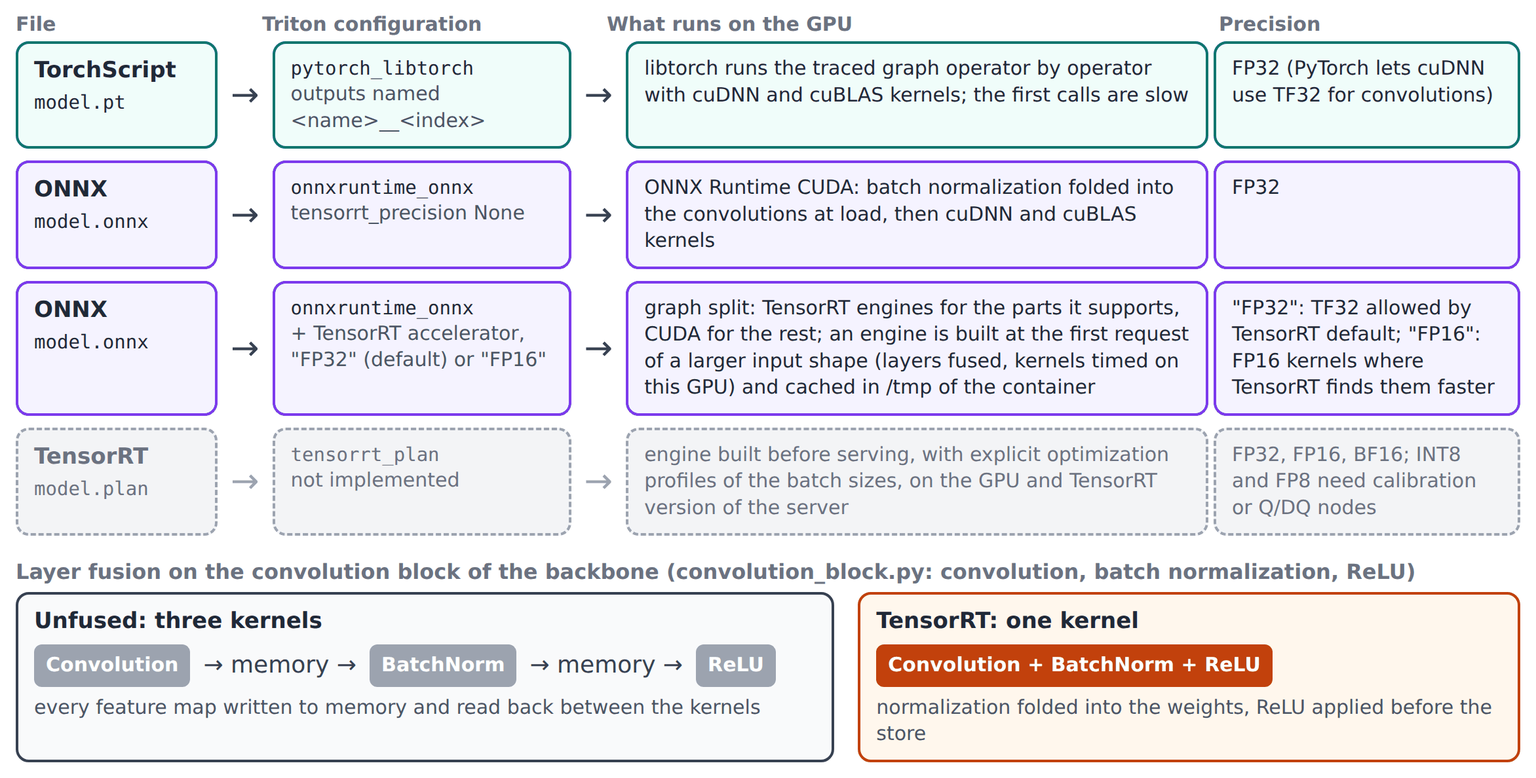
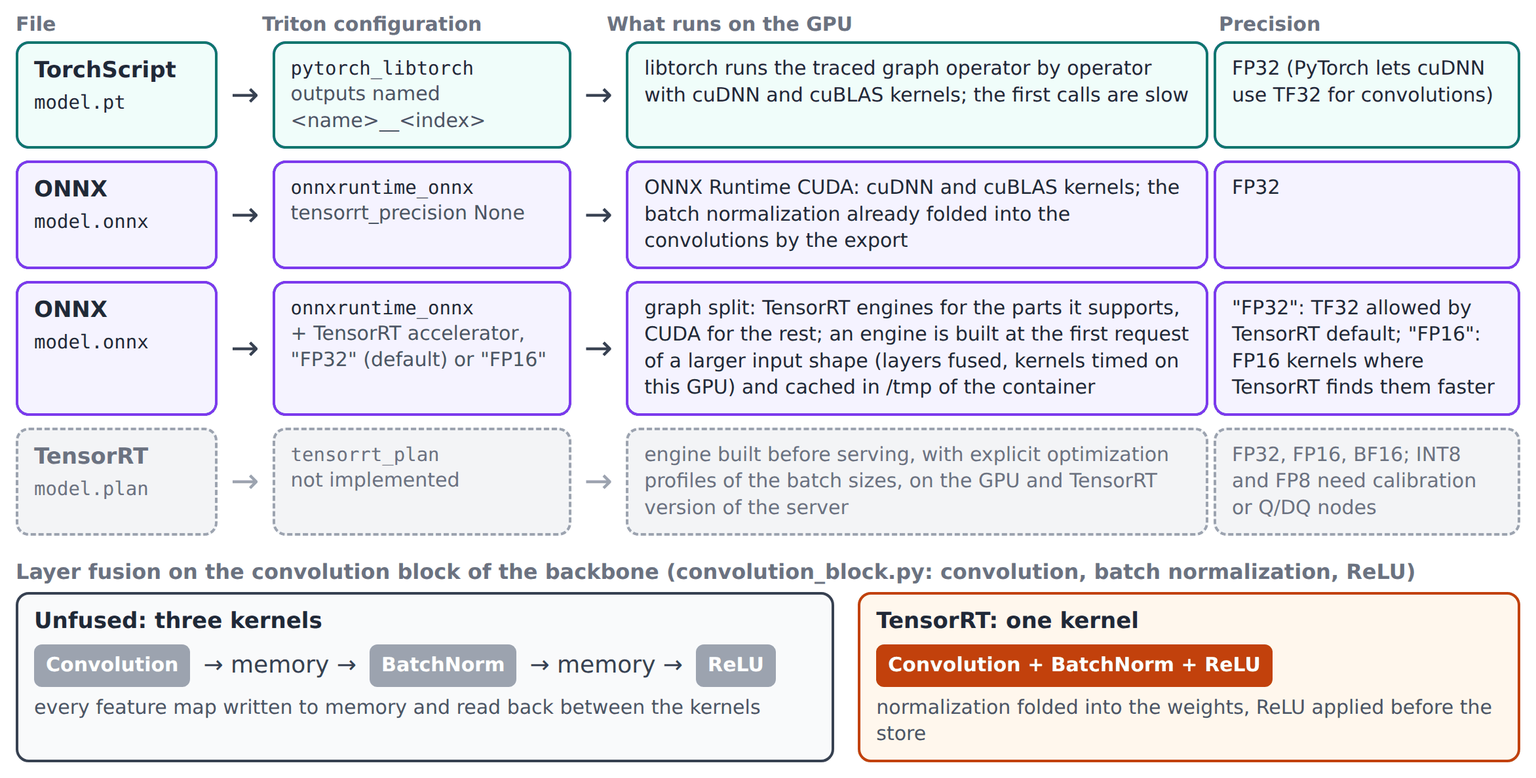
[DOCS] Open the Deployment section with From A Checkpoint To A Served Model, which follows the 35-class README classifier (512 pixels, iteration 2000) exported on 2026-11-19 from its checkpoint to Triton: a table of the words (eager, export, TorchScript, ONNX, ONNX Runtime, TensorRT, precision, Trit
Claude-Session: https://claude.ai/code/session_016uCt2XTu9R5KcJCjGynGL8

Changed region(s): [[0.4049, 0.218, 0.7786, 0.3426]]

diff --git a/README.md b/README.md
@@ -29,6 +29,7 @@
 - [MLflow Tracking](#mlflow-tracking)
 - [Tutorials](#tutorials)
 - [Deployment](#deployment)
+  - [From A Checkpoint To A Served Model](#from-a-checkpoint-to-a-served-model)
   - [Export](#export)
   - [Input Contract](#input-contract)
   - [Triton Server](#triton-server)
@@ -899,8 +900,243 @@ Should you look for what the videos do not show yet, `documentation/tutorial_bac
 
 ## Deployment
 
+### From A Checkpoint To A Served Model
+If words such as eager, ONNX or TensorRT stop you in the Deployment section, this part follows one trained run from its checkpoint to a served model: the 35-class synthetic shapes classifier of the README screenshots (512 pixels, iteration 2000), exported on 2026-11-19, from which every file, output and timing below comes unless the serving benchmark is named. The table gives each word in one line with a comparison, the subsections explain them on that run, and the [glossary](#glossary) defines the other terms.
+
+| Word | What it is | Comparison |
+|---|---|---|
+| Eager | PyTorch running the Python classes of the repository line by line, each operation sent to the GPU when Python reaches it: how every training and evaluation runs, and the reference of every export | a cook reading the recipe step by step, free to change a step on the way |
+| Export | `export_model.py` running the model once on an example batch, recording its operations and weights into `model.pt` and `model.onnx`, checking both against the eager model and writing them with their Triton configuration into `served_models/` | filming the cook once, so the film no longer needs the cook's notes |
+| TorchScript (`model.pt`) | the graph format of PyTorch: the operations recorded by `torch.jit.trace` with the weights, run by PyTorch or its C++ library libtorch, in your process or in Triton | the film, playable only by PyTorch players |
+| ONNX (`model.onnx`) | an open graph format of standard operators (opset 18): the graph in `model.onnx`, the weights in `model.onnx.data`, the input contract in its metadata, read by the runtimes of any framework | the recipe written in a universal language |
+| ONNX Runtime | the library that runs `model.onnx`: on the CPU for the export check, on the GPU inside Triton through its CUDA or TensorRT execution provider | a kitchen that reads the universal recipe, on the stove plugged into it |
+| TensorRT | the compiler of NVIDIA that turns `model.onnx` into an engine for one GPU model and one TensorRT version; ONNX Runtime builds the engines inside Triton at the first requests, and the export does not check them | the recipe rewritten for one specific kitchen, faster there and useless elsewhere |
+| Precision (FP32 / FP16) | the bits of every computed value: the exports store FP32 (32 bits), and with `tensorrt_precision = "FP16"` TensorRT computes in FP16 (16 bits) where it is faster, the inputs and outputs staying FP32 | coarser measuring cups: quicker to use, every measure rounded more |
+| Triton | the inference server of NVIDIA, a Docker container that loads `served_models/` and answers requests over HTTP and gRPC, batching those that arrive together | a restaurant taking orders from many tables at once |
+
+<p align="center">
+  <img src="README/deployment_paths_map.png" width="100%" />
+</p>
+<p align="center"><em>The four ways to run the checkpoint of the README classifier, with the sizes of its export (model.pt, model.onnx) and of the TensorRT engines built from model.onnx in the Triton image (TensorRT 10.14.1, GB10).</em></p>
+
+#### Training Versus Serving
+Once a run has finished, what you hold is a run folder only this repository can read: `Weights/Iteration_2000/model_002000.pt` stores named tensors, and `load_trained_model` rebuilds the network from `training_configuration.yaml` with the Python classes of the repository before copying the tensors into it, the way every evaluation runs. Serving means another program, often on another machine, that receives images and returns predictions. It needs:
+- **the operations and the weights in a file it can read** without this repository: which operation follows which, on which shapes, with which weights;
+- **speed**: the latency of a request (the time until its answer) and the throughput (images answered per second when many arrive);
+- **the same answers** as the model that was evaluated, within a tolerance.
+
+#### The Eager Model
+Each time you evaluate a run or call a model in a notebook, PyTorch runs it eagerly: it holds no plan of the network, Python executes `forward` line by line, and every PyTorch operation it reaches launches its kernel on the GPU at once. A kernel is one GPU program applied to a whole tensor by thousands of threads in parallel, such as the 3 x 3 convolution of the first block producing a [1, 16, 512, 512] feature map. Since Python decides what runs next, an `if`, a `print` or a breakpoint work as in any program; the price is that the serving machine needs Python, PyTorch, the code of the repository and the checkpoint. Kernel launches are asynchronous, Python moving to the next line while the GPU computes, so eager is not the slow path it may seem: on the 9-class README classifier, the serving benchmark measured 2.2 milliseconds for one image in the process, against 3.3 for TorchScript. The eager model is the reference of the repository: every evaluation, the in-process run of `run_inference.py` and the check of every export use it.
+
+<p align="center">
+  <img src="README/eager_trace_graph.gif" width="100%" />
+</p>
+<p align="center"><em>The forward of the README classifier, condensed: run eagerly (Python reaches each line, the False <code>if</code> is skipped), traced by the export (each operation recorded once on a batch of 2 images), then run from model.pt by libtorch without the Python code. Operations that only reshape a tensor (unsqueeze, flatten) and the dropout of the evaluation mode launch no kernel and are left out.</em></p>
+
+#### Checkpoint Versus Model File
+Should you try to load a checkpoint without this repository, you get named tensors and no network to put them in; an exported file holds the graph (the operations with their connections and shapes) and the weights:
+
+| | Checkpoint | TorchScript | ONNX |
+|---|---|---|---|
+| File | `Weights/Iteration_2000/model_002000.pt`, 55.8 MB | `model.pt`, 18.7 MB | `model.onnx`, 0.34 MB, and `model.onnx.data`, 18.5 MB |
+| Holds | 106 named tensors (4.64 million values: weights, batch normalization statistics, class weights of the loss, 18.6 MB), the Adam optimizer state (two values per trained weight, 37.1 MB) and the run metadata | the recorded operations and their weights | 125 nodes of standard operators, 50 weight tensors (4.64 million values) and 5 constants, such as the 255 and 0.5 of the input normalization |
+| Read by | `load_trained_model`, with `training_configuration.yaml` and the code of the repository | PyTorch or libtorch alone | any ONNX runtime |
+
+#### How The Export Records The Graph
+To turn Python code into a file of operations, `export_experiment` (`vision_training/deployment/export_model.py`) runs the inference model on an example batch and writes down what it does:
+- **TorchScript**: `torch.jit.trace` (`export_torchscript` in `export_formats.py`) runs `forward` on a random batch of 2 images and records every tensor operation it executes. Python itself is not recorded: an `if` is decided once and only the branch the example batch took stays. The README classifier keeps the division by 255 and the subtraction of 0.5 of `InputNormalizer`, and nothing of the per-image standardization behind `if self.per_sample_normalization:`, False for this run; a branch on the values of a tensor would be frozen to the example batch in the same way.
+- **ONNX**: `torch.onnx.export(..., opset_version=18, dynamo=True, dynamic_shapes=...)` (`export_onnx`) captures the graph with `torch.export`, which follows the batch dimension as a symbol, `batch` from 1 to `maximum_batch_size`, instead of the number 2, so that `model.onnx` declares its input as [batch, 3, 512, 512]. The optimizer of the exporter then simplifies the graph and folds each batch normalization into the weights and bias of the convolution before it.
+- **The check**: each file runs again on a random batch of 3 images, so that a batch dimension frozen to 2 fails at export rather than in Triton: `model.pt` with `torch.jit.load` on the GPU, `model.onnx` with ONNX Runtime on the CPU. Their outputs must match the eager model, TF32 off, within the tolerance of the task (1e-4 on probabilities, 0.01 pixel on boxes), and the served models are replaced only when every format matches ([Export](#export)).
+
+#### TorchScript
+Suppose the service that answers the requests already links PyTorch, in Python or in C++: TorchScript is the graph format of PyTorch itself, and `model.pt` holds the traced graph with its weights. libtorch, the C++ library at the core of PyTorch, runs it with the same kernels as the eager model, so that on the GPU `model.pt` gives the eager probabilities of the test image below to the last digit. `torch.jit.load` in Python, or `torch::jit::load` in C++, needs no code of the repository, and Triton serves the file with its PyTorch backend (`platform: "pytorch_libtorch"`, the output named `class_probabilities__0`). The graph keeps one operator per PyTorch call, 11 `aten::_convolution` and 11 `aten::batch_norm`, nothing folded. PyTorch 2.14 warns that `torch.jit.trace` and `torch.jit.load` are deprecated and points to `torch.export`; `hide_known_export_warnings` hides these warnings during the export.
+
+#### ONNX
+Whenever the program that serves the model has no PyTorch, a service written in C# or Java, or TensorRT itself, it reads ONNX, the Open Neural Network Exchange format shared by the frameworks: a graph of standard operators (Conv, Relu, Gemm for a fully connected layer, Softmax...) whose behaviour the ONNX specification fixes for every opset version, 18 in this repository. Any runtime implementing opset 18 runs the file, ONNX Runtime, TensorRT or others, from Python, C++, C# or Java, on a CPU or a GPU. Read with the `onnx` package, the export of the README classifier holds 125 nodes: the input normalization inside the graph (its first Div and Sub, so a client sends pixels from 0 to 255), no BatchNormalization node, and the [input contract](#input-contract) in its metadata.
+
+<p align="center">
+  <img src="README/onnx_graph_excerpt.png" width="100%" />
+</p>
+<p align="center"><em>The first 13 and last 7 of the 125 nodes of model.onnx, with the output shape of every node and the shapes of its weights, read from the export of 2026-11-19 with <code>onnx.load</code> and <code>onnx.shape_inference</code>; the squeeze-and-excitation branch is indented.</em></p>
+
+#### ONNX Runtime And Its Execution Providers
+For an ONNX file to compute anything, a runtime must execute its graph; the export check and Triton use ONNX Runtime. It loads the graph, simplifies it, then hands every node to an execution provider, the plug-in that decides on which hardware and with which kernels the node runs:
+
+| Execution provider | How it runs the graph | In this repository |
+|---|---|---|
+| `CPUExecutionProvider` | every node on the CPU | the export check of `model.onnx` |
+| `CUDAExecutionProvider` | the nodes on the GPU, one after the other, the convolutions with cuDNN and the matrix products with cuBLAS, the kernel libraries of NVIDIA that PyTorch calls too | Triton with `tensorrt_precision = None` |
+| `TensorrtExecutionProvider` | hands the parts of the graph TensorRT supports to TensorRT, the rest to CUDA | Triton with `"FP32"` (default) or `"FP16"` |
+
+Before you plan a GPU run of `model.onnx` in your own process, check which providers your installation offers, the `onnxruntime` package of `pyproject.toml` being the CPU build:
+
+```python
+import onnxruntime
+
+print(onnxruntime.get_available_providers())
+```
+
+It prints `['AzureExecutionProvider', 'CPUExecutionProvider']` in the environment of the repository. The CUDA and TensorRT providers come with the `onnxruntime-gpu` package and with the Triton image, where this repository runs ONNX on the GPU.
+
+#### TensorRT
+In case the speed of one model on one GPU matters more than a portable file, TensorRT, the inference compiler of NVIDIA, turns the graph into an engine for that GPU. ONNX Runtime CUDA works mostly like an interpreter, running the nodes one after the other with library kernels after a few rewrites of the graph; TensorRT works like a compiler, reading the whole graph once and writing a program for one GPU. Built from `model.onnx` of the README classifier with `trtexec` in the Triton image (TensorRT 10.14.1, FP32, one image), its engine shows the three things it does:
+- **Fusion**: several nodes computed in one kernel, their intermediate tensors never written to memory. The first convolution produces a [1, 16, 512, 512] float32 feature map, 16.8 MB, that a separate ReLU kernel would read back and write again; TensorRT runs the Conv and its Relu as one layer (`node_Conv_99_myl0_2` covers `node_Conv_99` and `node_relu`), as it does for the 8 other convolutions a Relu follows (the 2 left feed the squeeze-and-excitation of a residual block), the Div and Sub of the input normalization as another, and makes 79 layers of the 125 nodes.
+- **Kernel auto-tuning**: for every layer, the builder times candidate kernels, called tactics, on the GPU itself and keeps the fastest; for that first convolution it timed 60, from 0.0859 milliseconds (TF32 on the Tensor Cores, the units of the GPU that multiply small matrices in reduced precision) to 0.2888.
+- **Reduced precision**: with `"FP16"`, it takes FP16 kernels where they are faster; for the same convolution it kept one of 0.0217 milliseconds.
+
+<p align="center">
+  <img src="README/tensorrt_fusion_and_tuning.gif" width="100%" />
+</p>
+<p align="center"><em>The input normalization and block 1 of the README classifier: their 13 nodes in model.onnx, the 9 layers TensorRT made of them (layer names of the engine report of <code>trtexec --exportLayerInfo</code>), then the 60 candidate kernels its builder timed for the fused convolution on the GB10 and the one it kept, from its verbose log.</em></p>
+
+The output, an engine (also called a plan), is valid for one GPU model (the cached engines carry `sm121`, the compute capability 12.1 of the GB10), one TensorRT version and the input shapes it was built for; it is slow to build and fast to run, `trtexec` building this one in 5.46 seconds. In this repository the TensorRT provider of ONNX Runtime builds the engines inside Triton at the first requests and caches them in `/tmp/tensorrt_engine_cache` of the container, 19.1 MB in FP32 and 10.3 MB in FP16 for this classifier; a native engine built at export (`model.plan`) is not implemented. [TensorRT Or TorchScript And ONNX Runtime CUDA](#tensorrt-or-torchscript-and-onnx-runtime-cuda) lists what this costs.
+
+#### Precision Of The Numbers
+So that you can weigh a reduced precision before serving with it, note that every export stores FP32 (32-bit) weights, inputs and outputs, while the Tensor Cores compute faster on fewer bits: TF32 (PyTorch convolutions and TensorRT "FP32" by default), BF16 and FP16 (16 bits), FP8 and INT8 (8 bits), FP4 (4 bits), each value then rounded more or held in a narrower range. The detector of this repository lost 7.88 points of mAP@0.5 with TensorRT FP16 because the box coordinates its exported NMS offset went above 65,504, the largest FP16 value, until the NMS was fixed ([Serving Benchmark Results](#serving-benchmark-results)). [Number Formats](#number-formats) explains every format with examples.
+
+#### Triton Inference Server
+When other programs must query the model over the network rather than call it inside your own script, a server holds it: Triton Inference Server, the serving program of NVIDIA, started as a Docker container from `vision_training/deployment/triton/docker-compose.yml` ([Triton Server](#triton-server)). It loads the model folders of `served_models/`, each described by its `config.pbtxt`, receives requests over HTTP (port 8000) or gRPC (port 8001), waits up to 1 millisecond to group the requests that arrive together into one batch (dynamic batching), runs each file with its backend, the plug-in of one format (libtorch for `model.pt`, ONNX Runtime with or without TensorRT for `model.onnx`), and returns the outputs. "In the process" is the opposite: the model lives inside your own Python program (the eager model, `torch.jit.load` or an `onnxruntime.InferenceSession`), with no network and no queue.
+
+In order to query Triton once it serves the export of the run, a client needs `tritonclient` and numpy (OpenCV here to read the test image of [One Image Through Every Path](#one-image-through-every-path)), not PyTorch; the calls are those of `run_triton_inference` in `deployment_utilities.py`:
+
+```python
+import cv2
+import numpy as np
+import tritonclient.grpc as triton_client
+
+images = cv2.imread("<synthetic_shapes_folder>/test/data/test_000012.png").transpose(2, 0, 1)[None].astype(np.float32)
+client = triton_client.InferenceServerClient(url="localhost:8001")
+inference_input = triton_client.InferInput(name="images", shape=list(images.shape), datatype="FP32")
+inference_input.set_data_from_numpy(input_tensor=images)
+result = client.infer(model_name="image_classifier_onnx", inputs=[inference_input],
+                      outputs=[triton_client.InferRequestedOutput(name="class_probabilities")])
+print(result.as_numpy(name="class_probabilities").max())
+```
+
+Sent on 2026-11-19 to a Triton server holding the export of the README classifier, it printed 0.96520966, the hexagon probability of `model.onnx` run with the TensorRT FP32 accelerator the export writes by default, and 0.9652039 once the container was started again, its TensorRT engine being built again (below).
+
+#### One Image Through Every Path
+Say you want to see on one image what "the export checks each format against the eager model" means: take `test_000012.png` of the test split of the CLS synthetic shapes dataset the run was trained on (`<synthetic_shapes_folder>`, generated as in [Quick Start With Synthetic Data](#quick-start-with-synthetic-data)), a hexagon of 512 x 512 pixels, the input size, so that the `keep_ratio` resize of the input contract leaves it as it is.
+
+If one wishes to run it through the three paths of a single process, run this snippet from the repository root once `export_model.py` has written the run into `served_models/`, `<experiment_folder>` being the folder that holds the run:
+
+```python
+import cv2
+import numpy as np
+import onnxruntime
+import torch
+
+from pathlib import Path
+
+from vision_training.deployment.export_specifications import build_inference_model
+from vision_training.models.model_loading import load_trained_model
+
+# One test image of 512 x 512 pixels, the input size, so the keep_ratio resize of the input contract leaves it as it is
+images = cv2.imread("<synthetic_shapes_folder>/test/data/test_000012.png").transpose(2, 0, 1)[None].astype(np.float32)
+served_models = Path("vision_training/deployment/triton/served_models")
+
+# Eager: the repository code builds the network from the configuration, then loads the checkpoint (TF32 off, as the
+# export check runs it)
+torch.backends.cudnn.allow_tf32 = False
+run_folder = Path("<experiment_folder>/CLS_IN-KAR-512_SE-RES-BN-B1x16.2x32.2x32.2x64.2x64.2x128-PT_HFLAT.128-HLN-CWB_MC35")
+model = load_trained_model(configuration_path=run_folder / "training_configuration.yaml", device=torch.device("cuda"),
+                           checkpoint_path=run_folder / "Weights/Iteration_2000/model_002000.pt", use_averaged_weights=False)
+eager_model = build_inference_model(task="classification", model=model)
+with torch.no_grad():
+    eager_probabilities = eager_model(images=torch.from_numpy(images).cuda()).cpu().numpy()
+
+# TorchScript: PyTorch alone reads the graph and the weights of model.pt
+torchscript_model = torch.jit.load(f=served_models / "image_classifier_torchscript/1/model.pt", map_location="cuda")
+with torch.no_grad():
+    torchscript_probabilities = torchscript_model(torch.from_numpy(images).cuda()).cpu().numpy()
+
+# ONNX: ONNX Runtime alone reads model.onnx and the weights of model.onnx.data, here on the CPU
+session = onnxruntime.InferenceSession(served_models / "image_classifier_onnx/1/model.onnx", providers=["CPUExecutionProvider"])
+onnx_probabilities = session.run(output_names=["class_probabilities"], input_feed={"images": images})[0]
+
+print(eager_probabilities.max(), np.abs(torchscript_probabilities - eager_probabilities).max(),
+      np.abs(onnx_probabilities - eager_probabilities).max())
+```
+
+It printed `0.96520376 0.0 2.7418137e-06`: the hexagon probability of the eager model, then the largest difference of the 35 probabilities of TorchScript and of ONNX Runtime from it. With the served models of the Triton server above added, all on 2026-11-19:
+
+| Path | hexagon | hollow_hexagon | pentagon | Largest difference from the eager model, over the 35 probabilities |
+|---|---|---|---|---|
+| Eager, TF32 off (reference of the export check) | 0.965204 | 0.013958 | 0.006539 | reference |
+| Eager, PyTorch defaults (TF32 convolutions) | 0.965195 | 0.013976 | 0.006531 | 1.85e-05 |
+| TorchScript, `torch.jit.load` on the GPU | 0.965204 | 0.013958 | 0.006539 | 0 |
+| ONNX, ONNX Runtime on the CPU | 0.965207 | 0.013957 | 0.006538 | 2.74e-06 |
+| Triton, TorchScript | 0.965204 | 0.013958 | 0.006539 | 1.25e-07 |
+| Triton, ONNX Runtime CUDA | 0.965241 | 0.013953 | 0.006515 | 3.72e-05 |
+| Triton, ONNX with TensorRT FP32 | 0.965210 | 0.013936 | 0.006542 | 2.16e-05 |
+| Triton, ONNX with TensorRT FP32, container started again | 0.965204 | 0.013946 | 0.006541 | 1.22e-05 |
+| Triton, ONNX with TensorRT FP16 | 0.965332 | 0.013985 | 0.006657 | 1.28e-04 |
+
+Every path keeps the three classes in the same order. The export checks the TorchScript and ONNX files as the third and fourth rows run them, within 1e-4; the TensorRT FP16 engine, which it never checks, is the one path beyond that tolerance on this image. A TensorRT engine also depends on its build: the restarted container built its engines again, timing the candidate kernels again, and its new FP32 engine gave the digits of the row "container started again" (its new FP16 engine 0.006630 for pentagon), while every other path repeated its digits.
+
+Where latency or throughput decides the path, the [serving benchmark](documentation/architecture_benchmarking/serving_benchmark_plan.md) measured these paths on 2026-11-17 on the idle GPU with the 9-class README classifier of that day (the same architecture with 9 classes, 512 pixels; Triton over shared memory, one client). The needs are those of the program that runs the model; a Triton client only needs a Triton client library (`tritonclient` and numpy in Python) or plain HTTP or gRPC calls:
+
+| Path | File | Python needed | PyTorch needed | Repository code needed | Tied to one GPU model and TensorRT version | Checked by the export | Batch 1 p50 (milliseconds) | Batch 16 (images per second) |
+|---|---|---|---|---|---|---|---|---|
+| In the process, eager | checkpoint | yes | yes | yes | no | reference | 2.2 | 349 |
+| In the process, TorchScript | `model.pt` | no, C++ loads it too | libtorch | no | no | yes, on the GPU | 3.3 | 355 |
+| Triton, TorchScript | `model.pt` | no | libtorch, inside the container | no | no | yes, on the GPU | 4.5 | 320 |
+| Triton, ONNX Runtime CUDA | `model.onnx` | no | no | no | no | yes, on the CPU | 3.6 | 435 |
+| Triton, ONNX with TensorRT FP32 | `model.onnx`, engine built at the first requests | no | no | no | yes, the engine | the ONNX graph, not the engine | 3.0 | 646 |
+| Triton, ONNX with TensorRT FP16 | the same | no | no | no | yes, the engine | no | 2.5 | 1,215 |
+
+#### Which One When
+To find your way among these paths, start from your situation:
+- **Debugging, evaluating or changing the model**: the eager model, the reference of every other path.
+- **A service in C++ or Python that already links PyTorch**: TorchScript, `torch.jit.load` on `model.pt`, with the kernels of the eager model; PyTorch 2.14 marks TorchScript as deprecated.
+- **No PyTorch where the model runs, or another language such as C# or Java**: ONNX with ONNX Runtime, on a CPU or a GPU.
+- **The most images per second on a known GPU**: ONNX with TensorRT FP16, after measuring its test metric through Triton with `scripts/deployment/evaluate_served_formats.py`, since the export never checks the engine.
+- **Many cameras or services at once, several models or versions behind one endpoint**: Triton, which also batches the requests that arrive together.
+
+#### Glossary
+If you are looking for one word of the Deployment section, here it is in one line, with where it appears in this repository:
+
+| Term | Meaning | In this repository |
+|---|---|---|
+| Kernel | one GPU program applied to a whole tensor by thousands of threads in parallel | the 3 x 3 convolution of block 1 over [1, 16, 512, 512] |
+| CUDA | the platform of NVIDIA to program its GPUs | `torch.device("cuda")`, the CUDA execution provider |
+| cuDNN, cuBLAS | the libraries of GPU kernels of NVIDIA for neural network layers (convolutions) and for matrix products | run by PyTorch, libtorch and ONNX Runtime CUDA |
+| Tensor Cores | units of the GPU that multiply small matrices in reduced precision (TF32, BF16, FP16, FP8, INT8, FP4) faster than its regular cores | the TF32 kernel TensorRT kept for the first convolution |
+| Eager | PyTorch running `forward` line by line, each operation launched when Python reaches it | every training and evaluation, the in-process run of `run_inference.py` |
+| Graph | the operations of a network with their connections, shapes and weights, known before it runs | `model.pt`, `model.onnx` |
+| Tracing | recording the operations a forward pass executes on an example batch | `torch.jit.trace` on a batch of 2 |
+| `torch.export` | the graph capture of PyTorch that follows dynamic dimensions as symbols | the ONNX export, `dynamo=True` |
+| TorchScript | the graph format of PyTorch, run by libtorch | `model.pt`, Triton `pytorch_libtorch` |
+| libtorch | the C++ library at the core of PyTorch | runs `model.pt` in Python, C++ or Triton |
+| ONNX | the framework-neutral graph format of standard operators | `model.onnx` and `model.onnx.data` |
+| Opset | the version of the ONNX operators and of their definitions a file uses | 18 |
+| ONNX Runtime | the library of Microsoft that runs ONNX files | the export check (CPU), Triton `onnxruntime_onnx` |
+| Execution provider | the plug-in of ONNX Runtime that decides on which hardware and with which kernels each node runs | CPU, CUDA, TensorRT |
+| TensorRT | the compiler and runtime of NVIDIA that turns a graph into an engine for one GPU | `tensorrt_precision` "FP32" or "FP16" |
+| Engine, plan | the compiled network of TensorRT, valid for one GPU model, one TensorRT version and a range of input shapes | `/tmp/tensorrt_engine_cache` of the container |
+| Fusion | several operations computed in one kernel, their intermediate tensors kept out of memory | 9 Conv and Relu pairs of the TensorRT engine |
+| Tactic | a candidate kernel the TensorRT builder times for a layer | 60 for the first convolution |
+| Triton Inference Server | the server of NVIDIA that loads model files and answers requests over HTTP and gRPC | `vision_training/deployment/triton/docker-compose.yml` |
+| Model repository | the folder Triton reads: one folder per model, with its `config.pbtxt` and version folders | `served_models/` |
+| Backend | the plug-in of Triton that runs one format | `pytorch_libtorch`, `onnxruntime_onnx` |
+| Dynamic batching | Triton grouping the requests that arrive close together into one batch | `max_queue_delay_microseconds: 1000` |
+| Instance | one copy of a model loaded by Triton, running requests in parallel with the other copies | `instance_group` count 1 |
+| In the process | the model inside your own program, without a server | eager, `torch.jit.load`, `onnxruntime.InferenceSession` |
+| Latency, p50 | the time from a request to its answer; p50 is its median over many requests, p99 the time 99 % of them stay under | the Batch 1 p50 columns |
+| Throughput | the images answered per second | the Batch 16 columns |
+| Warm-up | requests sent first and not timed, while CUDA initializes and TensorRT builds its engines | 20 in `run_inference.py` |
+| Shared memory | a memory region client and server both map, so that an image is written once instead of sent inside the request | `use_shared_memory`, `/dev/shm` |
+| Input contract | the preprocessing a client must apply, written with the model | `preprocessing.json`, the ONNX metadata |
+| FP32 | 32-bit floating point: 8 exponent and 23 mantissa bits ([Number Formats](#number-formats)) | every export and evaluation |
+| TF32 | Tensor Core mode with the range of FP32 and 10 mantissa bits ([Number Formats](#number-formats)) | PyTorch convolutions, TensorRT "FP32" |
+| BF16 | 16 bits: the range of FP32 with 7 mantissa bits ([Number Formats](#number-formats)) | the forward passes of the training |
+| FP16 | 16 bits: 5 exponent bits, largest value 65,504, and 10 mantissa bits ([Number Formats](#number-formats)) | `tensorrt_precision = "FP16"` |
+| FP8 | 8 bits, E4M3 or E5M2 ([Number Formats](#number-formats)) | not implemented |
+| INT8 | 8-bit integers times a scale ([Number Formats](#number-formats)) | not implemented |
+| FP4 | 4 bits, E2M1 ([Number Formats](#number-formats)) | not implemented |
+
 ### Export
-When a run is ready to be served, `vision_training/deployment/export_model.py` writes it to the Triton model repository as TorchScript and ONNX, with the Triton configuration of every model, and checks every export against the PyTorch model, the served models being replaced only once every format matches. Set `experiment_folder`, `iteration`, `use_averaged_weights`, `formats`, `maximum_batch_size` and `tensorrt_precision` (`"FP16"`, `"FP32"`, or `None` for ONNX Runtime CUDA only) in its main block, then run:
+When a run is ready to be served, `vision_training/deployment/export_model.py` writes it to the Triton model repository as [TorchScript](#torchscript) and [ONNX](#onnx), with the Triton configuration of every model, and checks every export against the [eager](#the-eager-model) PyTorch model, the served models being replaced only once every format matches ([How The Export Records The Graph](#how-the-export-records-the-graph)). Set `experiment_folder`, `iteration`, `use_averaged_weights`, `formats`, `maximum_batch_size` and `tensorrt_precision` (`"FP16"`, `"FP32"`, or `None` for ONNX Runtime CUDA only) in its main block, then run:
 
 ```bash
 uv run python -m vision_training.deployment.export_model
@@ -1006,7 +1242,7 @@ With one client and one request at a time, Triton adds latency: the CLS answers 
 
 #### TensorRT Or TorchScript And ONNX Runtime CUDA
 Whenever the latency of a model matters more than the portability of its file, TensorRT compiles the ONNX graph into an engine for this GPU instead of running it operator by operator:
-- **Layer and tensor fusion.** The convolution, batch normalization and ReLU of `convolution_block.py` become one kernel. ONNX Runtime CUDA folds the batch normalization into the convolution at load but keeps the ReLU apart (its convolution and activation fusion is listed for the CPU provider only, [graph optimizations](https://onnxruntime.ai/docs/performance/model-optimizations/graph-optimizations.html)), and libtorch runs the traced operators one by one.
+- **Layer and tensor fusion.** The convolution, batch normalization and ReLU of `convolution_block.py` become one kernel ([TensorRT](#tensorrt)). The ONNX export already folds the batch normalization into the weights and bias of the convolution, `model.onnx` holding no BatchNormalization node; ONNX Runtime lists its fusion of a convolution with its activation for the CPU provider only ([graph optimizations](https://onnxruntime.ai/docs/performance/model-optimizations/graph-optimizations.html)), and libtorch runs the traced operators one by one, the batch normalization included.
 - **Kernel auto-tuning.** The builder times the candidate kernels of every layer on the GPU itself and keeps the fastest.
 - **Reduced precision.** FP16 kernels on the Tensor Cores where TensorRT finds them faster, the FP16 flag allowing them without forcing them ([precision control, TensorRT 10](https://docs.nvidia.com/deeplearning/tensorrt/10.x.x/inference-library/precision-control.html)).
 
